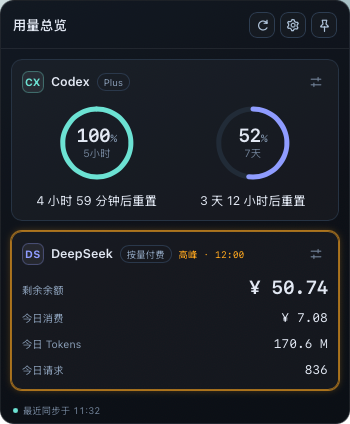
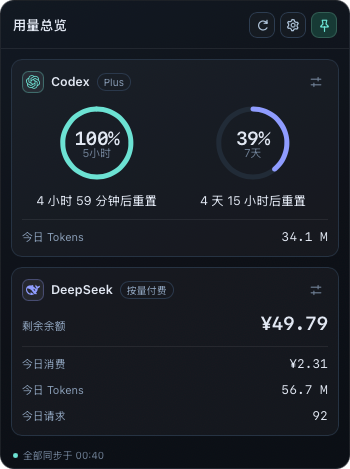
docs(readme): 截图改用极简模式与新版设置页
总览、外观与平台管理三张用真实运行的开发构建重拍，新增一张极简模式的竖栏与详情卡；
README 补上极简模式的功能说明与面板模式、菜单栏点击的文案。

diff --git a/docs/desktop/verification.md b/docs/desktop/verification.md
@@ -124,6 +124,12 @@ strings -a "$BIN" | grep -E '^/(index|settings)\.html$'   # 两个文档都在
 截图存于本节同级的 [`verification/`](verification/)：`settings-window-dark.png` 是设置窗口的
 深色渲染，`settings-and-panel.png` 是它与面板并排（面板在右、设置在左）。
 
+README 里的 `assets/screenshots/` 用同一套办法刷新：跑着开发构建，用 `screencapture -x -o -l <窗口号>`
+逐窗口取图（`-o` 去掉阴影、`-l` 只取该窗口，于是圆角处保留透明），面板与详情卡是两块窗口，按它们在屏
+上的相对位置拼成一张。窗口号来自 `CGWindowListCopyWindowInfo`；需要指针停在某个圆环上时用
+`CGWarpMouseCursorPosition` 移动指针，等宿主轮询（150 ms）把卡片放出来再截。截图只来自真实运行中的
+应用，不画示意图。
+
 | 检查 | 结果 | 证据 |
 | --- | --- | --- |
 | 窗口尺寸与装饰 | 通过 | AX 读到 `[设置] size=560380`；截图显示系统标题栏（红黄绿三键）＋标题「设置」（见 `verification/settings-window-dark.png`） |
